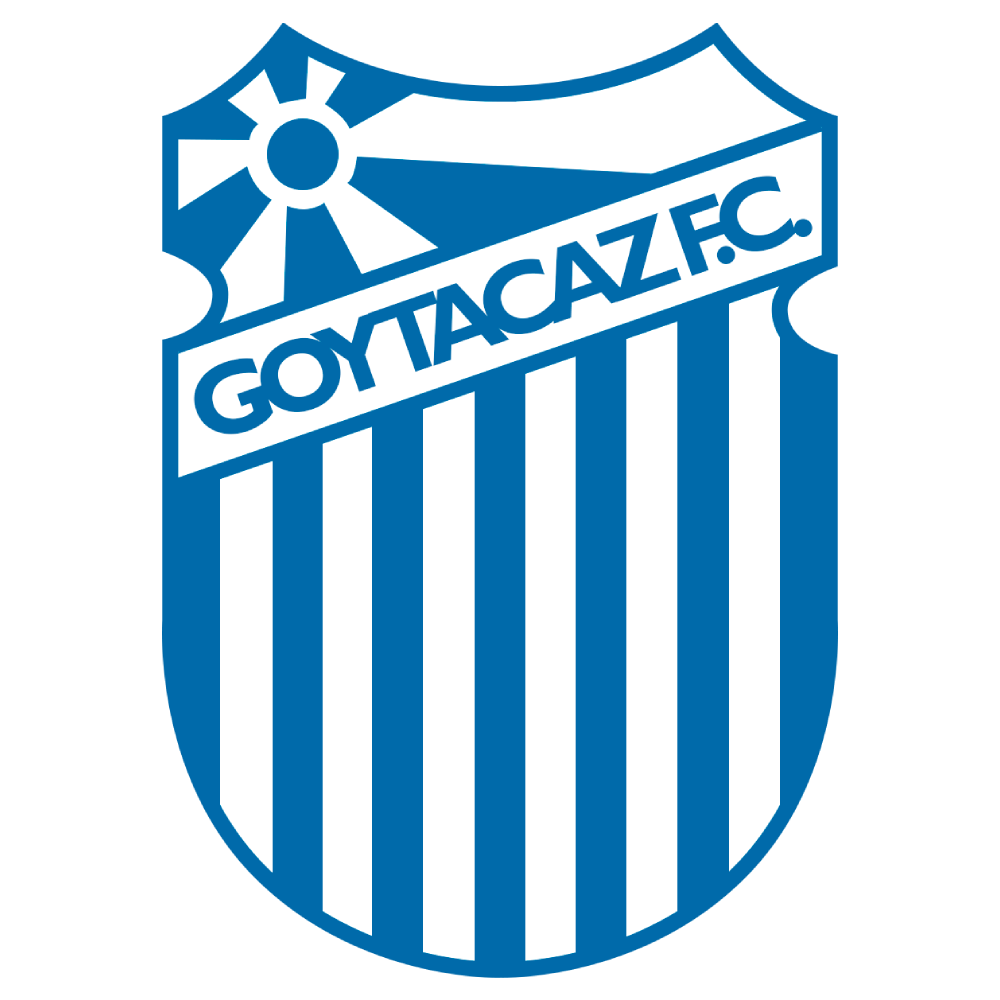
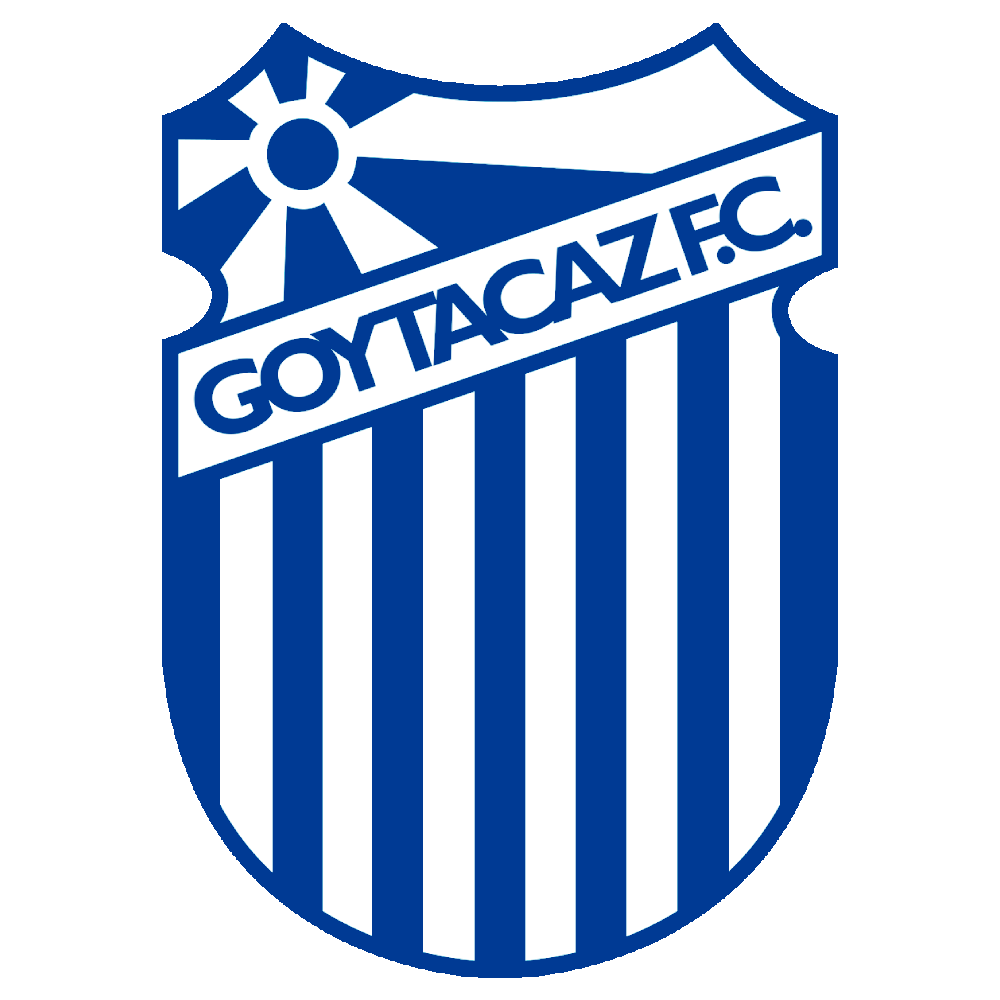
atualizando escudos

Changed region(s): [[0.155, 0.0, 0.837, 0.992]]

diff --git a/src/Times.js b/src/Times.js
@@ -755,7 +755,7 @@ function Times(time, data) {
             case "Goytacaz":
                   nomeAtual = time;
                   escudo = time;
-                  backgroundColor = "#2C68A5";
+                  backgroundColor = "#003a94";
                   letterColor = "white";
                   break;
             case "Grêmio":
